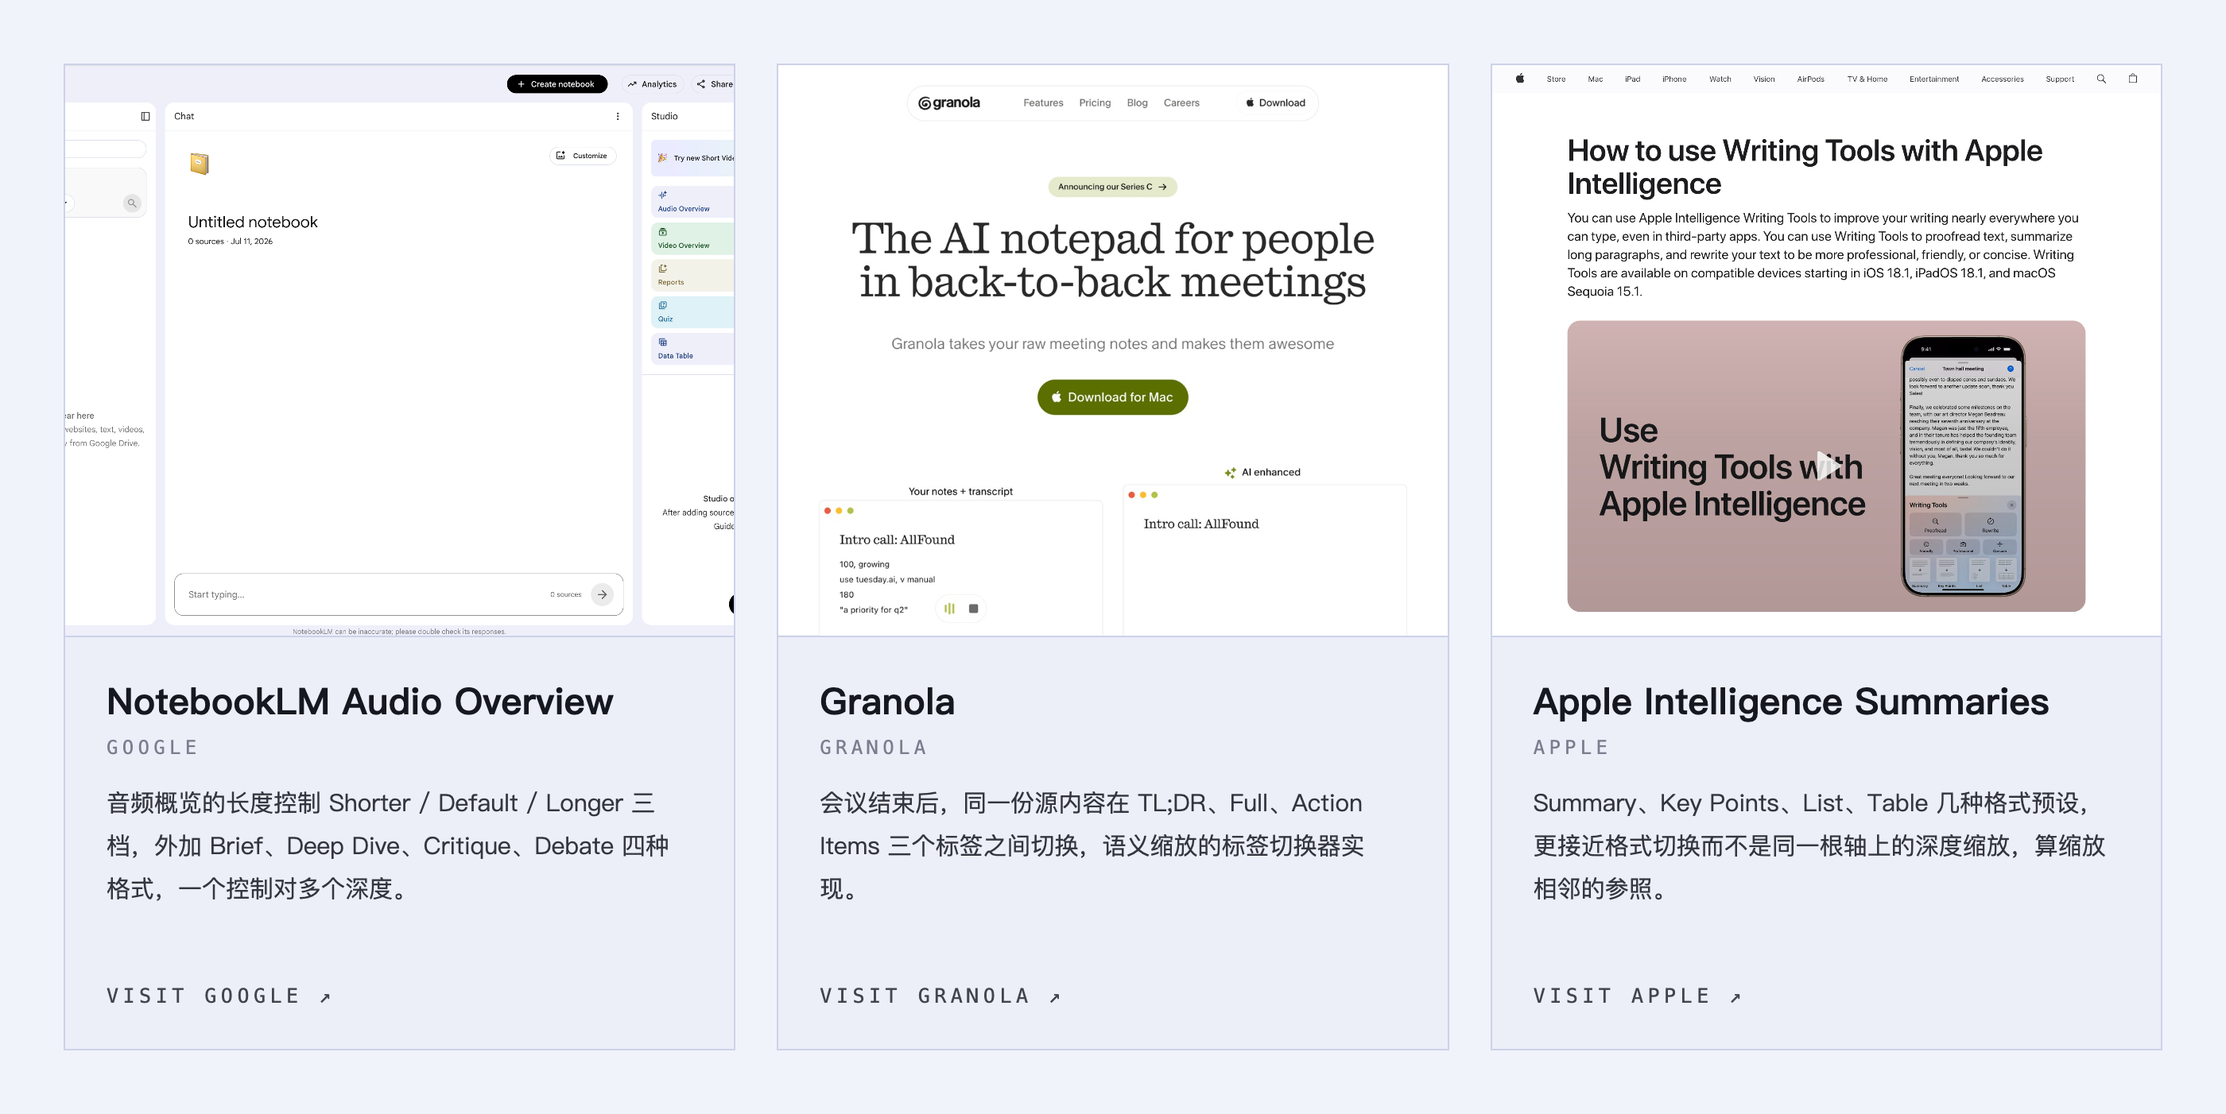
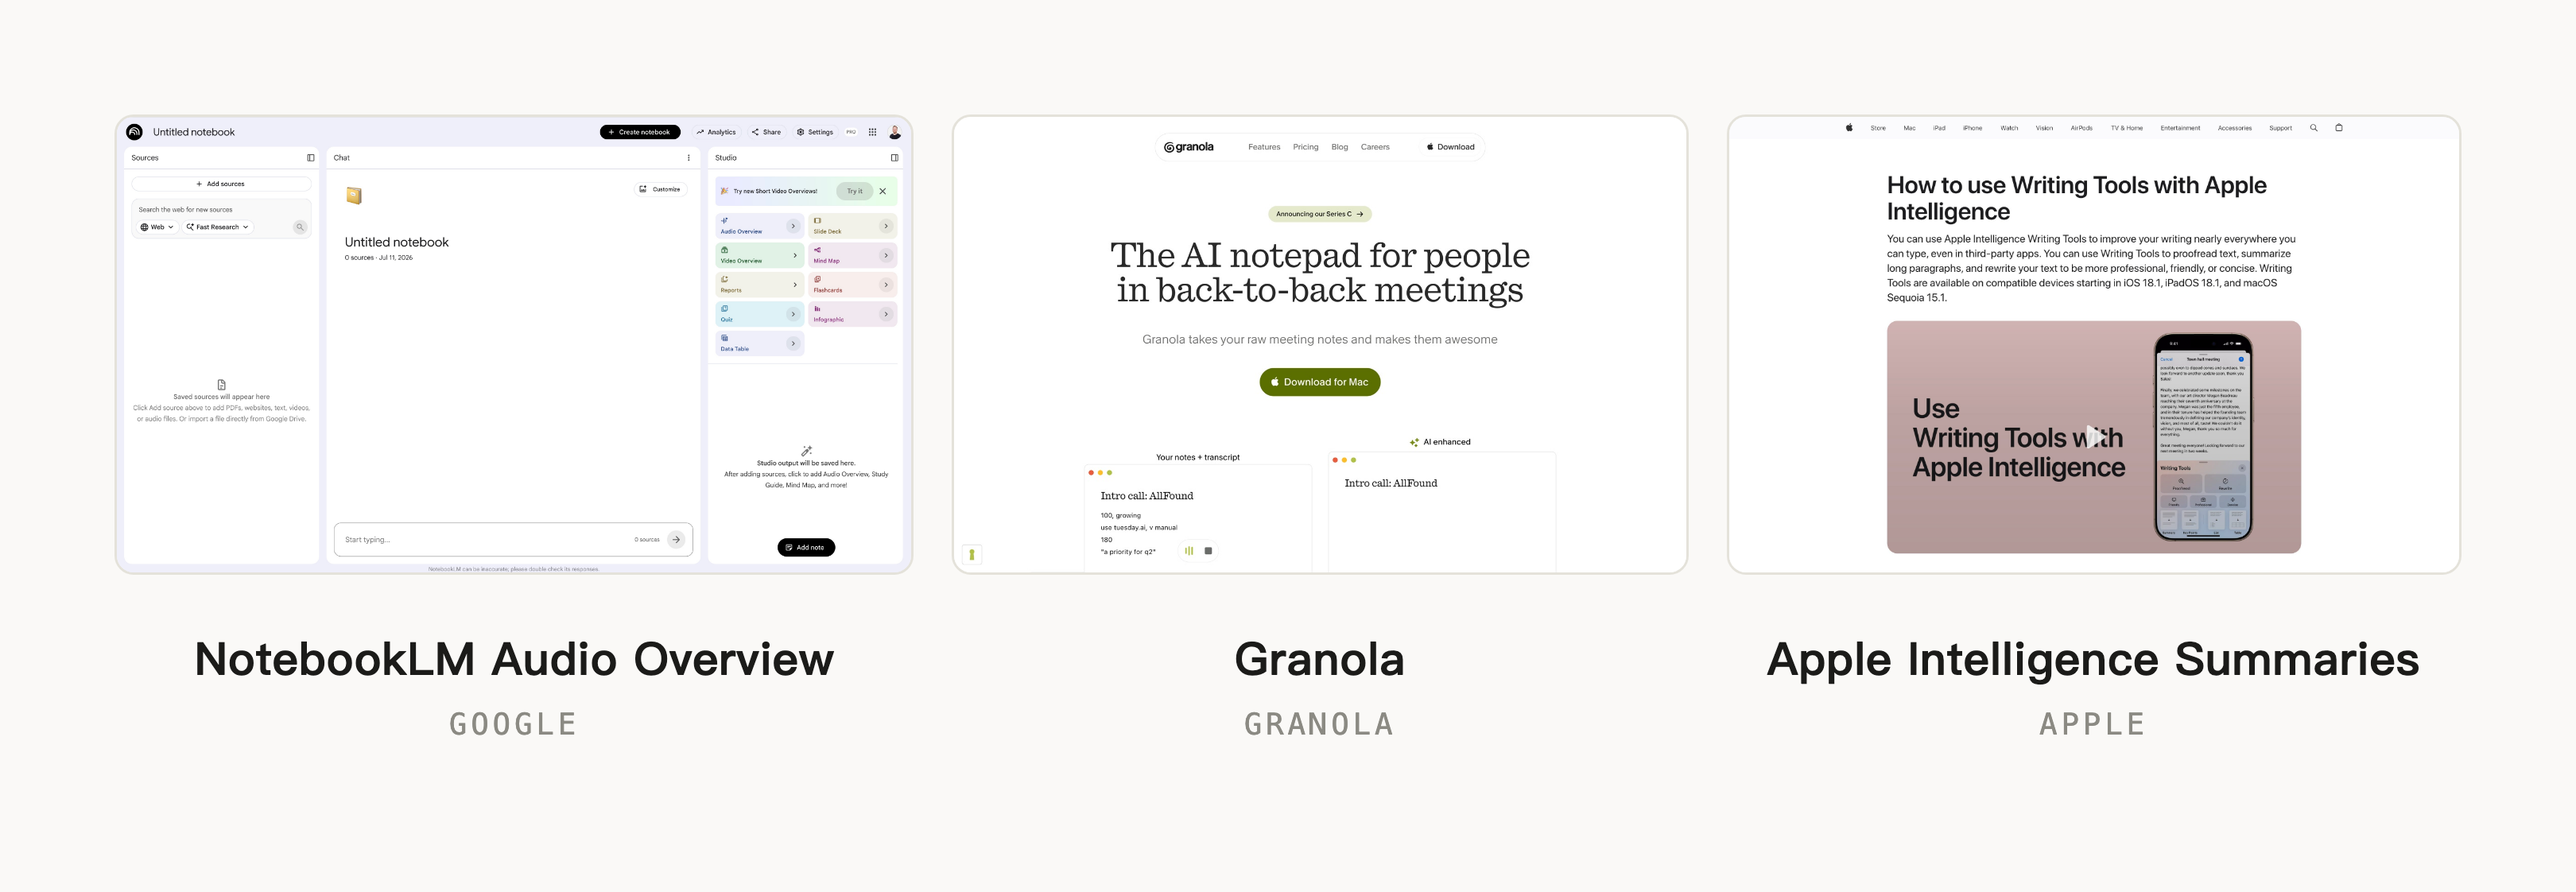
输出展示篇：三张已上线案例组图去跳转条、对齐前沿三联图样式
02/04/06 wild 组图重做：删 VISIT ↗ 跳转区，卡片壳改为浮动截图 +
居中粗体名 + 等宽品牌副行（同 00-frontier-wild 的 pro 风格）

diff --git a/docs/writing/article-beyond-chat-output-display.html b/docs/writing/article-beyond-chat-output-display.html
@@ -4,7 +4,7 @@
 <head>
 <meta charset="utf-8"/>
 <meta content="width=device-width, initial-scale=1.0" name="viewport"/>
-<title>AI 产品设计｜把流式输出做成可核验的组件 · VibeUX</title>
+<title>AI 产品设计｜流式逐字输出把生成过程当成了阅读过程 · VibeUX</title>
 <link href="../favicon.png?v=12" rel="icon" type="image/png"/>
 <link href="../favicon.png?v=12" rel="shortcut icon"/>
 <link href="../apple-touch-icon.png?v=12" rel="apple-touch-icon"/>
@@ -47,7 +47,7 @@
 </aside>
 <!-- 正文 -->
 <article class="article-reading">
-<h1 class="article-h1">AI 产品设计｜把流式输出做成可核验的组件</h1>
+<h1 class="article-h1">AI 产品设计｜流式逐字输出把生成过程当成了阅读过程</h1>
 <div class="article-byline"><div class="article-eyebrow article-eyebrow-top"><span class="a-kind">解读</span><span class="a-tag">AI 界面模式</span></div><span>2026-08-17</span><span>阅读约 7 分钟</span></div>
 <div class="article-cover"><iframe loading="lazy" src="assets/beyond-chat-output-display/cover.html"></iframe></div>
 <div class="article-body"><style>
@@ -482,16 +482,19 @@
   }
 </style>
 <p>从 2022 年底 ChatGPT 发布算起，大部分对话式 AI 产品的输出一直是同一种呈现方式：不管问的是分析、总结还是方案，回来的都是一段从上往下流的文字，从第一个字跑到最后一个字，等跑完才知道答案到底是三条摘要还是多屏长文。</p>
-<p>三年多里模型换了一代又一代，这个呈现方式几乎没动过。</p>
-<p>直到 2025 年下半年，前沿的几家 AI 产品开始换方式。2025 年 11 月 Gemini 3 发布时带了一个叫 dynamic view 的实验，模型现场写代码，给一个提问生成一个定制的可交互界面当答案；再早一个月，ChatGPT 上线 Apps SDK，Booking、Canva 这类应用的可交互界面开始渲染在对话里。</p>
-<img alt="前沿案例：Gemini 3 dynamic view 现场生成画廊界面，ChatGPT Apps SDK 在对话里渲染 Booking 酒店卡片" src="assets/beyond-chat-output-display/00-frontier-wild.png"/>
-<p>AI 产品逐步面向大众化时，为了让不同层次的用户都能，AI 输出的扁平字符流的默认做法，正在被重新设计。如果答案不是从第一个字流到最后一个字呢？</p>
-<div class="section-head"><svg height="70" style="display:block;margin:40px 0 0 0;overflow:visible" width="100%" xmlns="http://www.w3.org/2000/svg"><svg height="70" overflow="visible" style="overflow:visible" width="40" x="50%"><g transform="translate(-20 16)"><rect fill="rgba(61, 85, 230, 0.1)" height="40" rx="10" width="40" x="0" y="0"></rect><svg fill="none" height="19.2" overflow="visible" viewBox="0 0 24 24" width="19.2" x="10.4" xmlns="http://www.w3.org/2000/svg" y="10.4"><path d="M19.9 13.5H4.1C2.6 13.5 2 14.14 2 15.73V19.77C2 21.36 2.6 22 4.1 22H19.9C21.4 22 22 21.36 22 19.77V15.73C22 14.14 21.4 13.5 19.9 13.5Z" stroke="#3D55E6" stroke-linecap="round" stroke-linejoin="round" stroke-width="1.0"></path><path d="M19.9 2H4.1C2.6 2 2 2.64 2 4.23V8.27C2 9.86 2.6 10.5 4.1 10.5H19.9C21.4 10.5 22 9.86 22 8.27V4.23C22 2.64 21.4 2 19.9 2Z" stroke="#3D55E6" stroke-linecap="round" stroke-linejoin="round" stroke-width="1.0"></path></svg></g></svg></svg><h2 style="color: #3D55E6;">先出结构再填内容</h2></div>
-<p>长答案的流式输出，用户在不知道答案是三条要点还是三屏长文的情况下干等。输出骨架的做法是在正文到达之前先把结构声明出来，章节数、格式、预期长度先渲染好，内容再逐步填进各个占位符，用户一秒内就能判断将要收到什么规模的回答。比如一个研究分析的请求，骨架先显示五个章节标题和每章的预期长度，每个占位符标注将要填进什么类型的内容。用户在一个字的正文出现之前就可以跳读、展开折叠章节，甚至拒绝这个结构让模型重来。</p>
+<p>三年多里模型换了一代又一代，这个呈现方式几乎没动过。直到 2025 年，前沿的几家 AI 产品开始加入多模态展示方式。</p>
+<p>2025 年 5 月 Perplexity 上线 Labs，一个 prompt 跑约 10 分钟的自主工作，产出报告、表格和带图表的仪表盘；10 月 ChatGPT 上线 Apps SDK，Booking、Canva 这类应用的可交互界面开始渲染在对话里；一个月后 Gemini 3 发布了一个叫 dynamic view 的实验，是模型即时生成代码的生成式 UI，给一个提问生成一个定制的可交互界面当答案。</p>
+<img alt="前沿案例：Perplexity Labs 产出仪表盘，ChatGPT Apps SDK 渲染酒店卡片，Gemini 3 dynamic view 现场生成画廊界面" src="assets/beyond-chat-output-display/00-frontier-wild.png"/>
+<p>AI 产品逐步面向大众化时，为了让不同类型的用户都能流畅的内容获取与消费，最初的扁平字符流的默认做法，正在被重新设计。</p>
+<p>对于 AI 产品设计来说，在输出侧的核心考虑是：如果答案不是从第一个字流到最后一个字呢？</p>
+<div class="section-head"><svg height="70" style="display:block;margin:40px 0 0 0;overflow:visible" width="100%" xmlns="http://www.w3.org/2000/svg"><svg height="70" overflow="visible" style="overflow:visible" width="40" x="50%"><g transform="translate(-20 16)"><rect fill="rgba(61, 85, 230, 0.1)" height="40" rx="10" width="40" x="0" y="0"></rect><svg fill="none" height="19.2" overflow="visible" viewBox="0 0 24 24" width="19.2" x="10.4" xmlns="http://www.w3.org/2000/svg" y="10.4"><path d="M19.9 13.5H4.1C2.6 13.5 2 14.14 2 15.73V19.77C2 21.36 2.6 22 4.1 22H19.9C21.4 22 22 21.36 22 19.77V15.73C22 14.14 21.4 13.5 19.9 13.5Z" stroke="#3D55E6" stroke-linecap="round" stroke-linejoin="round" stroke-width="1.0"></path><path d="M19.9 2H4.1C2.6 2 2 2.64 2 4.23V8.27C2 9.86 2.6 10.5 4.1 10.5H19.9C21.4 10.5 22 9.86 22 8.27V4.23C22 2.64 21.4 2 19.9 2Z" stroke="#3D55E6" stroke-linecap="round" stroke-linejoin="round" stroke-width="1.0"></path></svg></g></svg></svg><h2 style="color: #3D55E6;">先出结构再填内容<br/>给足用户预期</h2></div>
+<p>对于长答案的流式输出，用户在不知道答案是三条要点还是三屏长文的情况下干等。输出骨架的做法是在正文到达之前先把结构声明出来，章节数、格式、预期长度先渲染好，内容再逐步填进各个占位符，用户一秒内就能判断将要收到什么规模的回答。</p>
+<p>这个设计形式其实都眼熟，就是 App 加载时的骨架屏，先出灰色占位条再填内容，区别在于普通骨架屏的灰条只表示有内容在加载，这里的占位块升级成了带标题的目录，有几个章节、每章大概多长，在灰条阶段就已经大概清楚了。</p>
+<p>比如一个研究分析的请求，骨架先显示五个章节标题和每章的预期长度，每个占位符标注将要填进什么类型的内容。用户在一个字的正文出现之前就可以跳读、展开折叠章节，甚至拒绝这个结构让模型重来。</p>
 <img alt="输出骨架原型：左边线性流式等到结尾才知道形状，右边先出章节骨架再逐个填充" src="assets/beyond-chat-output-display/01-output-skeleton-demo.png"/>
 <p>ChatGPT 的 Deep Research 在执行前先给一张可编辑的研究计划卡，用户可以审阅和修改大纲再让它开始写。Google 的 Gemini Deep Research 在 2026 年 4 月随 3.1 Pro 把这张计划卡做成了主交互，结构在任何内容到达前就被展示和塑形。Claude Artifacts 的做法比较隐式，长结构化文档中 Claude 常先起草标题和章节再填充，但 Anthropic 没有把这个行为做成品牌功能。</p>
+<img alt="输出骨架的已上线案例：ChatGPT Deep Research 和 Gemini Deep Research 的可编辑研究计划卡" src="assets/beyond-chat-output-display/02-output-skeleton-wild.png"/>
 <p>三家做法的分化挺能说明问题：OpenAI 和 Google 把骨架当成了可编辑的契约，Anthropic 把它当成了模型的自发行为，用户对结构的控制权差了一个层级。</p>
-<img alt="输出骨架的已上线案例：ChatGPT Deep Research 计划卡、Gemini Deep Research、Claude Artifacts" src="assets/beyond-chat-output-display/02-output-skeleton-wild.png"/>
 <p>风险在于骨架过度承诺，列出来的章节比模型能写好的多，承诺了五节精细分析最后只填了三节注水内容。输出很短或者完全自由发挥的时候，结构预览本身比内容还重，反而碍事。</p>
 <div class="section-head"><svg height="70" style="display:block;margin:40px 0 0 0;overflow:visible" width="100%" xmlns="http://www.w3.org/2000/svg"><svg height="70" overflow="visible" style="overflow:visible" width="40" x="50%"><g transform="translate(-20 16)"><rect fill="rgba(61, 85, 230, 0.1)" height="40" rx="10" width="40" x="0" y="0"></rect><svg fill="none" height="19.2" overflow="visible" viewBox="0 0 24 24" width="19.2" x="10.4" xmlns="http://www.w3.org/2000/svg" y="10.4"><path d="M2 1.25C2.41421 1.25 2.75 1.58579 2.75 2V18.5C2.75 20.0188 3.98122 21.25 5.5 21.25H22C22.4142 21.25 22.75 21.5858 22.75 22C22.75 22.4142 22.4142 22.75 22 22.75H5.5C3.15279 22.75 1.25 20.8472 1.25 18.5V2C1.25 1.58579 1.58579 1.25 2 1.25Z" fill="#3D55E6"></path> <path d="M7.25001 17L7.25 13C7.25 12.5858 7.58579 12.25 8 12.25C8.41421 12.25 8.75 12.5858 8.75 13L8.75001 17C8.75001 17.4142 8.41422 17.75 8.00001 17.75C7.58579 17.75 7.25001 17.4142 7.25001 17Z" fill="#3D55E6"></path> <path d="M11.25 7L11.25 17C11.25 17.4142 11.5858 17.75 12 17.75C12.4142 17.75 12.75 17.4142 12.75 17L12.75 7C12.75 6.58579 12.4142 6.25 12 6.25C11.5858 6.25 11.25 6.58579 11.25 7Z" fill="#3D55E6"></path> <path d="M15.25 17L15.25 11C15.25 10.5858 15.5858 10.25 16 10.25C16.4142 10.25 16.75 10.5858 16.75 11L16.75 17C16.75 17.4142 16.4142 17.75 16 17.75C15.5858 17.75 15.25 17.4142 15.25 17Z" fill="#3D55E6"></path> <path d="M19.25 17C19.25 17.4142 19.5858 17.75 20 17.75C20.4142 17.75 20.75 17.4142 20.75 17V4C20.75 3.58579 20.4142 3.25 20 3.25C19.5858 3.25 19.25 3.58579 19.25 4V17Z" fill="#3D55E6"></path></svg></g></svg></svg><h2 style="color: #3D55E6;">把答案变成交互组件</h2></div>
 <p>分析类的提问被用散文回答，数据模型就藏在文字后面了，没法核验，没法排序，没法筛选，每一个后续操作都得用新 Prompt 重新问。</p>
@@ -512,10 +515,10 @@
 <p>这三个模式解决的都是同一个问题：流式逐字输出，是把模型的生成过程直接当成了用户的阅读过程，生成和阅读不该被当成同一个过程。</p>
 <p>1996 年 Ben Shneiderman 在《The Eyes Have It》里给信息可视化定了一条到今天还在引用的原则：<strong>先看总览，再缩放和过滤，最后按需看细节。</strong></p>
 <svg height="15" style="display:block;margin:40px 0;overflow:visible" width="100%" xmlns="http://www.w3.org/2000/svg"><svg height="15" width="50%" x="0" y="0"><g transform="translate(-49.5 0)"><rect fill="#3D55E6" height="1" opacity="0.35" width="100%" x="0" y="7"></rect></g></svg><svg height="15" width="50%" x="50%" y="0"><g transform="translate(49.5 0)"><rect fill="#3D55E6" height="1" opacity="0.35" width="100%" x="0" y="7"></rect></g></svg><svg height="15" overflow="visible" style="overflow:visible" x="50%" y="0"><g transform="translate(-49.5 0)"><g transform="translate(9 0)"><circle cx="8" cy="8" fill="#3D55E6" r="4.3"></circle></g><g transform="translate(42 0)"><polygon fill="#3D55E6" points="8,3.50 4.10,10.25 11.90,10.25"></polygon></g><g transform="translate(75 0)"><polygon fill="#3D55E6" points="8,3.20 9.18,6.38 12.57,6.52 9.90,8.62 10.82,11.88 8,10.00 5.18,11.88 6.10,8.62 3.44,6.52 6.82,6.38"></polygon></g></g></svg></svg>
-<p>本文三个模式的内容、原型描述与产品案例来自 Beyond Chat 站点的 Output Skeleton、Generative UI、Semantic Zoom 三个模式页；开头的前沿案例图取自 Google Gemini 3 发布页的 dynamic view 演示视频截帧和 OpenAI Apps in ChatGPT 发布页的官方图片。</p></div>
+<p>本文三个模式的内容、原型描述与产品案例来自 Beyond Chat 站点的 Output Skeleton、Generative UI、Semantic Zoom 三个模式页；开头的前沿案例图取自 Perplexity Labs 发布页、OpenAI Apps in ChatGPT 发布页的官方图片和 Google Gemini 3 发布页的 dynamic view 演示视频截帧；输出骨架的案例图取自 OpenAI 在 X 发布的 Deep Research 更新演示视频截帧和 Google Workspace 更新公告的官方图片。</p></div>
 <!-- 底部 -->
 <footer class="article-footer">
-<div class="same-collection"><div class="sc-title">合集 · AI 产品设计</div><a href="article-beyond-chat-prompt-to-controls.html"><span class="sc-num">01</span><span>AI 产品设计 ｜ 把高频微调的 Prompt 转变为可复现的参数控件</span></a><a href="article-beyond-chat-edit-in-place.html"><span class="sc-num">02</span><span>AI 产品设计｜修改在内容上而不是聊天框里</span></a><a href="article-long-chat-navigation-design.html"><span class="sc-num">03</span><span>AI 产品设计｜长对话导航机制</span></a><a href="article-beyond-chat-output-display.html"><span class="sc-num">04</span><span>AI 产品设计｜把流式输出做成可核验的组件</span></a></div>
+<div class="same-collection"><div class="sc-title">合集 · AI 产品设计</div><a href="article-beyond-chat-prompt-to-controls.html"><span class="sc-num">01</span><span>AI 产品设计 ｜ 把高频微调的 Prompt 转变为可复现的参数控件</span></a><a href="article-beyond-chat-edit-in-place.html"><span class="sc-num">02</span><span>AI 产品设计｜修改在内容上而不是聊天框里</span></a><a href="article-long-chat-navigation-design.html"><span class="sc-num">03</span><span>AI 产品设计｜长对话导航机制</span></a><a href="article-beyond-chat-output-display.html"><span class="sc-num">04</span><span>AI 产品设计｜流式逐字输出把生成过程当成了阅读过程</span></a></div>
 </footer>
 </article>
 </div>

diff --git a/docs/writing/writing.js b/docs/writing/writing.js
@@ -426,7 +426,7 @@ function initTOC() {
    ======================================== */
 /* READER_ARTICLES:AUTO —— 发布时 render.py 从 articles.json 自动重生成此数组,勿手改。 */
 let READER_ARTICLES = [
-    { file: "article-beyond-chat-output-display.html", cat: "ui", title: "AI 产品设计｜把流式输出做成可核验的组件", date: "2026-08-17", cover: "assets/beyond-chat-output-display/cover.png", accent: "#3D55E6" },
+    { file: "article-beyond-chat-output-display.html", cat: "ui", title: "AI 产品设计｜流式逐字输出把生成过程当成了阅读过程", date: "2026-08-17", cover: "assets/beyond-chat-output-display/cover.png", accent: "#3D55E6" },
     { file: "article-long-chat-navigation-design.html", cat: "ui", title: "AI 产品设计｜长对话导航机制", date: "2026-08-11", cover: "assets/long-chat-navigation-design/cover.png", accent: "#5B6FE8" },
     { file: "article-claude-code-suggested-task.html", cat: "product", title: "活儿干到一半，Claude Code 反过来给我派任务了", date: "2026-08-09", cover: "assets/claude-code-suggested-task/cover.png", accent: "#D94F2E" },
     { file: "article-code-connect-mcp-coverage.html", cat: "product", title: "Figma 新推出 Code Connect CLI，给 Agent 读取生产环境的上下文", date: "2026-08-07", cover: "assets/code-connect-mcp-coverage/cover.png", accent: "#3392CC" },
